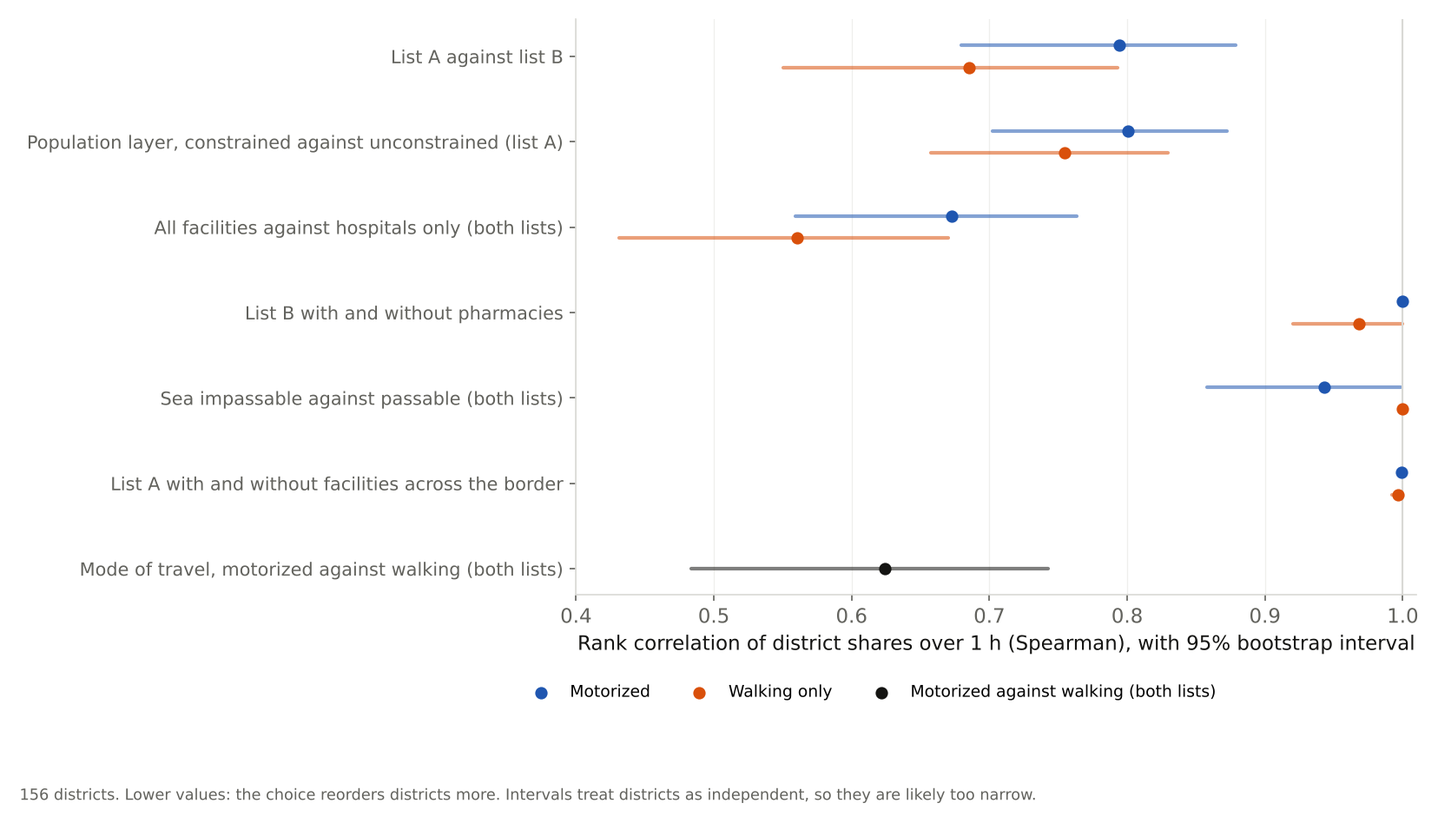
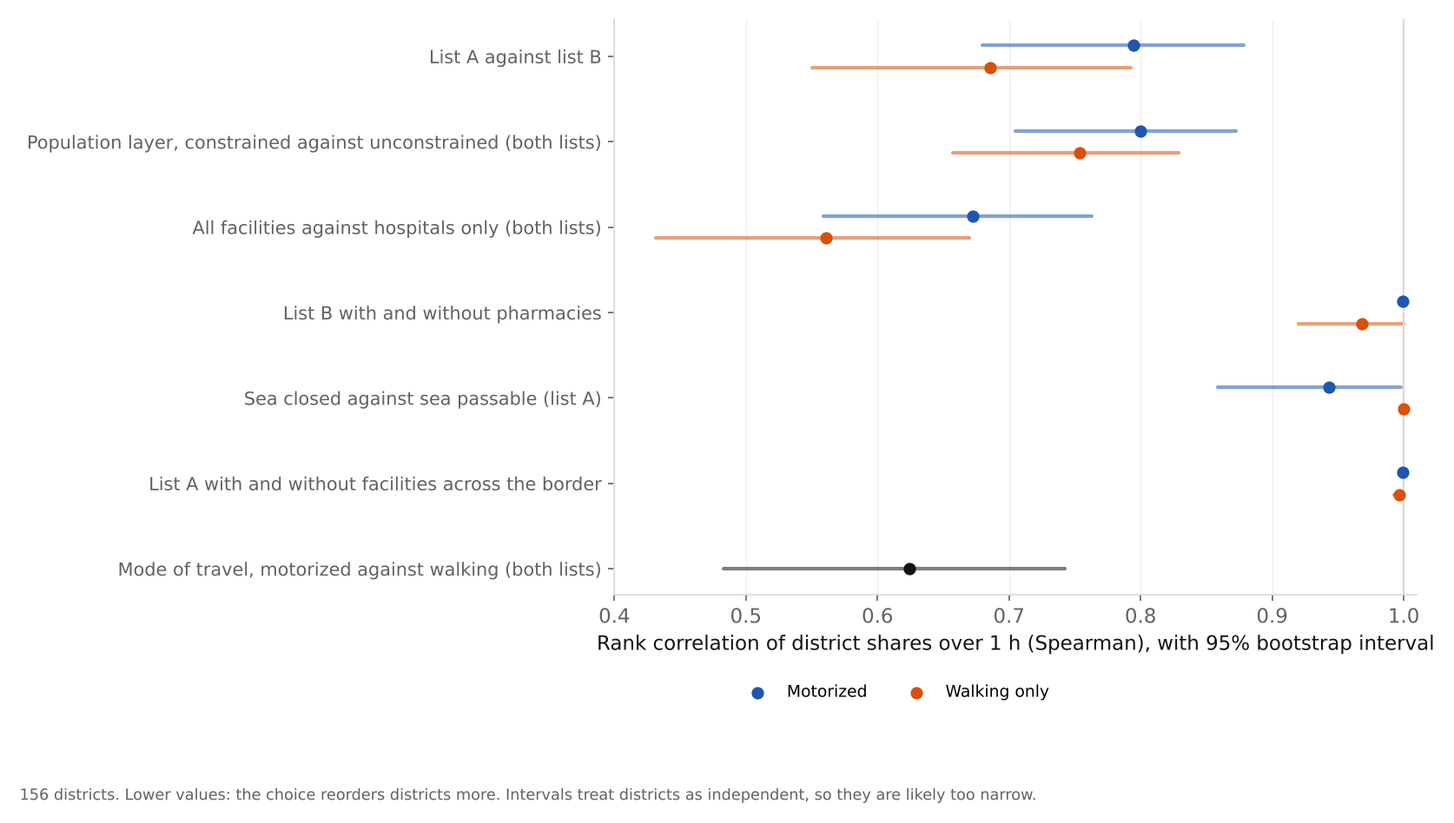
Fixes from the pre-release review

diff --git a/docs/index.html b/docs/index.html
@@ -91,9 +91,9 @@ are modelled to live more than an hour from a health facility, depending
 on which of two open facility lists, or both together, is used; on foot
 the figure is between 44.9% and 55.4%. These national figures move by a
 few percentage points with the facility list, but the figure for a
-single district can move by up to 94 points, and the choice of
-population map matters as much. All travel times here are modelled, not
-measured.</p>
+single district can move by up to 94 points by motor (97 on foot), and
+the choice of population map matters as much. All travel times here are
+modelled, not measured.</p>
 <h2 id="abstract">Abstract</h2>
 <p>Estimates of how far people live from health care depend on which
 facilities are counted, how people are assumed to travel and where the
@@ -108,18 +108,18 @@ motorized transport, 7.4% of residents are modelled to live more than
 one hour from a list A facility and 11.3% from a list B facility; on
 foot the shares are 46.6% and 55.4%. Across districts, the share beyond
 one hour under the two lists has a rank correlation of 0.79 by motor and
-0.69 on foot, and 26 and 60 districts change by more than 10 percentage
-points. Counting hospitals only, or switching from motorized to walking
-travel, tended to reorder districts more (intervals overlap). Replacing
-the WorldPop R2025A constrained population layer with the older
-unconstrained layer raises the national motorized share from 7.4% to
-14.2%, more than switching lists does; the two layers differ in release
-and inputs as well as in constraint. In three provinces in the north and
-centre, removing the 9 facilities (of 10 in the file) that the WHO
-HeRAMS survey reports as not functioning barely changes the provincial
-share on foot (57.4% to 57.5%), but a few districts move by up to 22
-points. All travel times are modelled; none was compared with measured
-journeys.</p>
+0.69 on foot, and 26 districts (motorized) and 60 (walking) change by
+more than 10 percentage points. Counting hospitals only, or switching
+from motorized to walking travel, tended to reorder districts more
+(intervals overlap). Replacing the WorldPop R2025A constrained
+population layer with the older unconstrained layer raises the national
+motorized share from 7.4% to 14.2%, more than switching lists does; the
+two layers differ in release and inputs as well as in constraint. In
+three provinces in the north and centre, removing the 9 facilities (of
+10 in the file) that the WHO HeRAMS survey reports as not functioning
+barely changes the provincial share on foot (57.4% to 57.5%), but a few
+districts move by up to 22 points. All travel times are modelled; none
+was compared with measured journeys.</p>
 <p><strong>Keywords:</strong> geographic access; health facilities;
 travel time; friction surface; OpenStreetMap; Mozambique</p>
 <h2 id="introduction">1. Introduction</h2>
@@ -477,9 +477,9 @@ rankings</h3>
 4). Between list A and list B, the rank correlation of the district
 shares beyond one hour is 0.79 by motor (95% interval 0.68 to 0.88) and
 0.69 on foot (0.55 to 0.79). By motor, 26 districts change by more than
-10 points, and 60 on foot (Figure 5); 16 and 30 change by more than 20
-points. The largest change is 94 points by motor, in Chifunde, and 97
-points on foot, in Cidade De Lichinga; list B has no facility in either
+10 points, and 60 on foot (Figure 5); by more than 20 points, 16 and 30
+do. The largest change is 94 points by motor, in Chifunde, and 97 points
+on foot, in Cidade De Lichinga; list B has no facility in either
 district, where list A has 7 and 12. Of the 20 districts with the
 highest motorized share under list A, 13 are also among the 20 highest
 under list B (9 on foot). Adding list B to list A changes less: the rank
@@ -589,7 +589,7 @@ points above the line are districts where list B gives a longer time.
 </figcaption>
 </figure>
 <figure class="wide mapimg" id="fig-5">
-<picture><source media="(max-width: 760px)" srcset="assets/figures/fig5_change_map_phone.webp"><img src="assets/figures/fig5_change_map.webp" width="1494" height="1253" loading="lazy" alt="Change in each district's share of residents more than one hour from the nearest facility when list B replaces list A, in percentage points. Orange: more residents beyond one hour with list B; blue: fewer. Hatched units (a lake and two islands) are not compared."></picture>
+<picture><source media="(max-width: 760px)" srcset="assets/figures/fig5_change_map_phone.webp"><img src="assets/figures/fig5_change_map.webp" width="1494" height="1186" loading="lazy" alt="Change in each district's share of residents more than one hour from the nearest facility when list B replaces list A, in percentage points. Orange: more residents beyond one hour with list B; blue: fewer. Hatched units (a lake and two islands) are not compared."></picture>
 <figcaption>
 <b>Figure 5.</b> Change in each district’s share of residents more than
 one hour from the nearest facility when list B replaces list A, in
@@ -614,7 +614,7 @@ lists A and B give a rank correlation of 0.73 by motor, and 54 districts
 change by more than 10 points, partly because the lists define hospitals
 differently.</p>
 <figure class="wide mapimg" id="fig-6">
-<picture><source media="(max-width: 760px)" srcset="assets/figures/fig6_rank_phone.webp"><img src="assets/figures/fig6_rank.webp" width="1656" height="948" loading="lazy" alt="Rank correlation of district shares beyond one hour between pairs of runs, with 95% bootstrap intervals over districts. Lower values mean the choice reorders districts more. The intervals treat districts as independent, so they are likely too narrow."></picture>
+<picture><source media="(max-width: 760px)" srcset="assets/figures/fig6_rank_phone.webp"><img src="assets/figures/fig6_rank.webp" width="1674" height="948" loading="lazy" alt="Rank correlation of district shares beyond one hour between pairs of runs, with 95% bootstrap intervals over districts. Lower values mean the choice reorders districts more. The intervals treat districts as independent, so they are likely too narrow."></picture>
 <figcaption>
 <b>Figure 6.</b> Rank correlation of district shares beyond one hour
 between pairs of runs, with 95% bootstrap intervals over districts.
@@ -766,7 +766,7 @@ would show how much they can be relied on.</p>
         <dt>HeRAMS</dt><dd>The WHO Health Resources and Services Availability Monitoring System. Its Mozambique file records, for three provinces in the north and centre, whether each facility was functioning when last assessed in 2022–2024.</dd>
         <dt>Constrained and unconstrained population</dt><dd>Two WorldPop maps of where people live. The constrained map puts people only on mapped settlements; the unconstrained map spreads them over all land. Both are models, not census counts.</dd>
         <dt>Share beyond one hour</dt><dd>The share of a district's modelled residents whose travel time to the nearest facility is more than 60 minutes. Residents who cannot reach any facility count as beyond.</dd>
-        <dt>Rank correlation</dt><dd>Spearman's rank correlation between two sets of district values. 1 means the districts come in the same order under both; lower values mean the order changes.</dd>
+        <dt>Rank correlation</dt><dd>Spearman's rank correlation between two sets of district values. A value of 1 means the districts come in the same order under both; lower values mean the order changes.</dd>
         <dt>Percentage point</dt><dd>The difference between two percentages. A share that moves from 20% to 30% changes by 10 points.</dd>
     </dl>
 </section>

diff --git a/scripts/page_end.html b/scripts/page_end.html
@@ -9,7 +9,7 @@
         <dt>HeRAMS</dt><dd>The WHO Health Resources and Services Availability Monitoring System. Its Mozambique file records, for three provinces in the north and centre, whether each facility was functioning when last assessed in 2022–2024.</dd>
         <dt>Constrained and unconstrained population</dt><dd>Two WorldPop maps of where people live. The constrained map puts people only on mapped settlements; the unconstrained map spreads them over all land. Both are models, not census counts.</dd>
         <dt>Share beyond one hour</dt><dd>The share of a district's modelled residents whose travel time to the nearest facility is more than 60 minutes. Residents who cannot reach any facility count as beyond.</dd>
-        <dt>Rank correlation</dt><dd>Spearman's rank correlation between two sets of district values. 1 means the districts come in the same order under both; lower values mean the order changes.</dd>
+        <dt>Rank correlation</dt><dd>Spearman's rank correlation between two sets of district values. A value of 1 means the districts come in the same order under both; lower values mean the order changes.</dd>
         <dt>Percentage point</dt><dd>The difference between two percentages. A share that moves from 20% to 30% changes by 10 points.</dd>
     </dl>
 </section>

diff --git a/scripts/s06_more_figures.py b/scripts/s06_more_figures.py
@@ -12,6 +12,7 @@ scripts/s04_figures.py.
 """
 import json
 import sys
+import textwrap
 import warnings
 from pathlib import Path
 
@@ -28,11 +29,11 @@ import access as A  # noqa: E402
 from s02_grid import MAIN_LAYER  # noqa: E402
 from s04_figures import COL_A, COL_B, INK, MUTED, RULE, map_axes, save  # noqa: E402
 
-# change in percentage points, list B minus list A: blue where list B is nearer, orange where it is farther
+# change in percentage points, list B minus list A: blue where fewer residents are beyond one hour, orange where more are
 CH_BOUNDS = [-100, -20, -10, -2, 2, 10, 20, 100]
 CH_COLS = ["#1f4e8c", "#6b9bd1", "#c7d9ef", "#f1f0ec", "#f6c89a", "#e5772e", "#9c3a08"]
-CH_LABELS = ["more than 20 points nearer", "10 to 20 nearer", "2 to 10 nearer", "within 2 points",
-             "2 to 10 farther", "10 to 20 farther", "more than 20 points farther"]
+CH_LABELS = ["over 20 points lower", "10 to 20 lower", "2 to 10 lower", "within 2 points",
+             "2 to 10 higher", "10 to 20 higher", "over 20 points higher"]
 
 
 def shapes():
@@ -51,7 +52,7 @@ def fig5_change_map(phone):
     d, a0, a1 = shapes()
     compared = set(S["compared_districts"])
     cmap = ListedColormap(CH_COLS); norm = BoundaryNorm(CH_BOUNDS, cmap.N)
-    fig, axs = plt.subplots(2 if phone else 1, 2 if not phone else 1, figsize=(6.2, 11.8) if phone else (11, 7.6))
+    fig, axs = plt.subplots(2 if phone else 1, 2 if not phone else 1, figsize=(4.0, 8.4) if phone else (11, 7.6))
     axs = np.ravel(axs)
     for ax, mode, title in ((axs[0], "motorized", "Motorized"), (axs[1], "walking", "Walking only")):
         a = S["scenarios"]["A"][mode][MAIN_LAYER]["districts"]
@@ -67,11 +68,15 @@ def fig5_change_map(phone):
         ax.set_title(f"{title}\n{n10} districts change by over 10 points", color=INK)
     handles = [plt.Rectangle((0, 0), 1, 1, color=c) for c in CH_COLS]
     handles.append(plt.Rectangle((0, 0), 1, 1, facecolor="#e5e5e1", hatch="////", edgecolor="white"))
+    handles[-1].set_edgecolor("#999")
+    title = "List B against list A: share of residents over 1 h, percentage points"
     fig.legend(handles, CH_LABELS + ["not compared (lake, islands)"], loc="lower center", ncol=2 if phone else 4,
-               frameon=False, fontsize=9, bbox_to_anchor=(0.5, -0.07 if phone else -0.06),
-               title="List B against list A: share of residents over 1 h, percentage points", title_fontsize=9.5)
-    fig.text(0.01, -0.12 if not phone else -0.11, "District and province outlines: geoBoundaries gbOpen MOZ ADM2. "
-             "Constrained WorldPop R2025A population.", fontsize=8.5, color=MUTED)
+               frameon=False, fontsize=8 if phone else 9, bbox_to_anchor=(0.5, -0.06 if phone else -0.02),
+               title=textwrap.fill(title, 44) if phone else title, title_fontsize=8.5 if phone else 9.5)
+    note = ("District and province outlines: geoBoundaries gbOpen MOZ ADM2. "
+            "Constrained WorldPop R2025A population.")
+    fig.text(0.01, -0.105 if phone else -0.05, textwrap.fill(note, 52) if phone else note, fontsize=7.5 if phone else 8.5,
+             color=MUTED, va="top")
     save(fig, "fig5_change_map", phone)
 
 
@@ -80,14 +85,14 @@ def fig6_rank(phone):
     P, M, L = C["pairs"], C["modes"], C["population_layer"]
     rows = [  # label, motorized entry, walking entry
         ("List A against list B", P["A|B|motorized|60"], P["A|B|walking|60"]),
-        ("Population layer, constrained against unconstrained (list A)", L["A|motorized|60"], L["A|walking|60"]),
+        ("Population layer, constrained against unconstrained (both lists)", L["AB|motorized|60"], L["AB|walking|60"]),
         ("All facilities against hospitals only (both lists)", P["AB|AB_hosp|motorized|60"], P["AB|AB_hosp|walking|60"]),
         ("List B with and without pharmacies", P["B|B_pharm|motorized|60"], P["B|B_pharm|walking|60"]),
-        ("Sea impassable against passable (both lists)", P["AB|AB_sea|motorized|60"], P["AB|AB_sea|walking|60"]),
+        ("Sea closed against sea passable (list A)", P["A|A_sea|motorized|60"], P["A|A_sea|walking|60"]),
         ("List A with and without facilities across the border", P["A|A_cross|motorized|60"], P["A|A_cross|walking|60"]),
     ]
     mode = M["AB|60"]
-    fig, ax = plt.subplots(figsize=(6.2, 8.2) if phone else (11, 5.6))
+    fig, ax = plt.subplots(figsize=(4.0, 7.2) if phone else (11, 5.6))
     y = np.arange(len(rows) + 1)
     for k, (label, colour, off) in enumerate((("Motorized", COL_A, -0.13), ("Walking only", COL_B, 0.13))):
         for j, (_, mo, wa) in enumerate(rows):
@@ -98,23 +103,26 @@ def fig6_rank(phone):
     lo, hi = mode["spearman_ci95"]
     j = len(rows)
     ax.plot([lo, hi], [j, j], color=INK, linewidth=2, alpha=0.55, solid_capstyle="round")
-    ax.scatter(mode["spearman"], j, s=34, color=INK, zorder=3, label="Motorized against walking (both lists)")
+    ax.scatter(mode["spearman"], j, s=34, color=INK, zorder=3)
     labels = [r[0] for r in rows] + ["Mode of travel, motorized against walking (both lists)"]
     if phone:
-        import textwrap
-        labels = [textwrap.fill(l, 30) for l in labels]
-    ax.set_yticks(y, labels, fontsize=8.5 if phone else 10)
+        labels = [textwrap.fill(l, 24) for l in labels]
+    ax.set_yticks(y, labels, fontsize=8 if phone else 10)
     ax.invert_yaxis()
     ax.set_xlim(0.4, 1.01)
     ax.axvline(1, color=RULE, linewidth=1)
-    ax.set_xlabel("Rank correlation of district shares over 1 h (Spearman), with 95% bootstrap interval")
+    ax.set_xlabel("Spearman rank correlation, 95% interval" if phone else
+                  "Rank correlation of district shares over 1 h (Spearman), with 95% bootstrap interval",
+                  fontsize=8.5 if phone else None)
     ax.grid(axis="x", color="#efefec", linewidth=0.6); ax.set_axisbelow(True)
     for s in ("top", "right"):
         ax.spines[s].set_visible(False)
-    ax.legend(loc="upper center", bbox_to_anchor=(0.35 if not phone else 0.2, -0.13 if not phone else -0.09),
-              ncol=3 if not phone else 1, frameon=False, fontsize=9)
-    fig.text(0.01, -0.1 if not phone else -0.08, f"{C['n_compared']} districts. Lower values: the choice reorders districts more. Intervals "
-             "treat districts as independent, so they are likely too narrow.", fontsize=8.5, color=MUTED)
+    ax.legend(loc="upper center", bbox_to_anchor=(0.35 if not phone else 0.2, -0.13 if not phone else -0.08),
+              ncol=2 if not phone else 1, frameon=False, fontsize=9)
+    note = (f"{C['n_compared']} districts. Lower values: the choice reorders districts more. Intervals "
+            "treat districts as independent, so they are likely too narrow.")
+    fig.text(0.01, -0.1 if not phone else -0.005, textwrap.fill(note, 50) if phone else note, fontsize=7.5 if phone else 8.5,
+             color=MUTED, va="top" if phone else "baseline")
     fig.tight_layout()
     save(fig, "fig6_rank", phone)
 

diff --git a/tests/test_paper.py b/tests/test_paper.py
@@ -42,13 +42,12 @@ def test_page_is_built_from_paper():
         assert (ROOT / "docs" / f).exists(), f
 
 
-def test_no_emoji_or_attribution_in_published_text():
+def test_no_emoji_in_published_text():
     emoji = re.compile("[\U0001F300-\U0001FAFF☀-➿]")
     for p in [ROOT / "paper" / "paper.md", ROOT / "docs" / "index.html", ROOT / "README.md"]:
         if p.exists():
             s = p.read_text(encoding="utf-8")
             assert not emoji.search(s), p
-            assert "Claude" not in s and "Anthropic" not in s, p
 
 
 def test_no_visible_placeholder_on_page():

diff --git a/paper/template.md b/paper/template.md
@@ -6,11 +6,11 @@ date: "{{date}}"
 
 # In brief
 
-With motor transport, between {{AB_m60}}% and {{B_m60}}% of people in Mozambique are modelled to live more than an hour from a health facility, depending on which of two open facility lists, or both together, is used; on foot the figure is between {{AB_w60}}% and {{B_w60}}%. These national figures move by a few percentage points with the facility list, but the figure for a single district can move by up to {{ab_max_m}} points, and the choice of population map matters as much. All travel times here are modelled, not measured.
+With motor transport, between {{AB_m60}}% and {{B_m60}}% of people in Mozambique are modelled to live more than an hour from a health facility, depending on which of two open facility lists, or both together, is used; on foot the figure is between {{AB_w60}}% and {{B_w60}}%. These national figures move by a few percentage points with the facility list, but the figure for a single district can move by up to {{ab_max_m}} points by motor ({{ab_max_w}} on foot), and the choice of population map matters as much. All travel times here are modelled, not measured.
 
 # Abstract
 
-Estimates of how far people live from health care depend on which facilities are counted, how people are assumed to travel and where the population is placed. We modelled travel time to the nearest health facility across Mozambique's {{n_districts}} second-level units (geoBoundaries ADM2) with the Malaria Atlas Project 2020 friction surfaces and WorldPop 2020 population, and repeated the calculation with two facility lists: the public-sector list of Maina et al. (2019) (list A, {{a_used}} facilities) and the OpenStreetMap health facilities exported by the Humanitarian OpenStreetMap Team (list B, {{b_used}} facilities without pharmacies). With motorized transport, {{A_m60}}% of residents are modelled to live more than one hour from a list A facility and {{B_m60}}% from a list B facility; on foot the shares are {{A_w60}}% and {{B_w60}}%. Across districts, the share beyond one hour under the two lists has a rank correlation of {{ab_rho_m}} by motor and {{ab_rho_w}} on foot, and {{ab_10_m}} and {{ab_10_w}} districts change by more than 10 percentage points. Counting hospitals only, or switching from motorized to walking travel, tended to reorder districts more (intervals overlap). Replacing the WorldPop R2025A constrained population layer with the older unconstrained layer raises the national motorized share from {{A_m60}}% to {{A_m60u}}%, more than switching lists does; the two layers differ in release and inputs as well as in constraint. In three provinces in the north and centre, removing the {{h_non}} facilities (of {{h_non_file}} in the file) that the WHO HeRAMS survey reports as not functioning barely changes the provincial share on foot ({{H_all_h3_w60}}% to {{H_func_h3_w60}}%), but a few districts move by up to {{hf_max_w}} points. All travel times are modelled; none was compared with measured journeys.
+Estimates of how far people live from health care depend on which facilities are counted, how people are assumed to travel and where the population is placed. We modelled travel time to the nearest health facility across Mozambique's {{n_districts}} second-level units (geoBoundaries ADM2) with the Malaria Atlas Project 2020 friction surfaces and WorldPop 2020 population, and repeated the calculation with two facility lists: the public-sector list of Maina et al. (2019) (list A, {{a_used}} facilities) and the OpenStreetMap health facilities exported by the Humanitarian OpenStreetMap Team (list B, {{b_used}} facilities without pharmacies). With motorized transport, {{A_m60}}% of residents are modelled to live more than one hour from a list A facility and {{B_m60}}% from a list B facility; on foot the shares are {{A_w60}}% and {{B_w60}}%. Across districts, the share beyond one hour under the two lists has a rank correlation of {{ab_rho_m}} by motor and {{ab_rho_w}} on foot, and {{ab_10_m}} districts (motorized) and {{ab_10_w}} (walking) change by more than 10 percentage points. Counting hospitals only, or switching from motorized to walking travel, tended to reorder districts more (intervals overlap). Replacing the WorldPop R2025A constrained population layer with the older unconstrained layer raises the national motorized share from {{A_m60}}% to {{A_m60u}}%, more than switching lists does; the two layers differ in release and inputs as well as in constraint. In three provinces in the north and centre, removing the {{h_non}} facilities (of {{h_non_file}} in the file) that the WHO HeRAMS survey reports as not functioning barely changes the provincial share on foot ({{H_all_h3_w60}}% to {{H_func_h3_w60}}%), but a few districts move by up to {{hf_max_w}} points. All travel times are modelled; none was compared with measured journeys.
 
 **Keywords:** geographic access; health facilities; travel time; friction surface; OpenStreetMap; Mozambique
 
@@ -82,7 +82,7 @@ Counting hospitals only raises the national share beyond one hour to {{A_hosp_m6
 
 ## 3.3 District estimates and rankings
 
-District shares agree less than the national ones (Table 2, Figure 4). Between list A and list B, the rank correlation of the district shares beyond one hour is {{ab_rho_m}} by motor (95% interval {{ab_ci_m}}) and {{ab_rho_w}} on foot ({{ab_ci_w}}). By motor, {{ab_10_m}} districts change by more than 10 points, and {{ab_10_w}} on foot (Figure 5); {{ab_20_m}} and {{ab_20_w}} change by more than 20 points. The largest change is {{ab_max_m}} points by motor, in {{ab_max_m_d}}, and {{ab_max_w}} points on foot, in {{ab_max_w_d}}; list B has no facility in either district, where list A has {{ab_max_m_na}} and {{ab_max_w_na}}. Of the {{top_k}} districts with the highest motorized share under list A, {{ab_top_m}} are also among the {{top_k}} highest under list B ({{ab_top_w}} on foot). Adding list B to list A changes less: the rank correlation is {{aab_rho_m}} by motor and {{aab_rho_w}} on foot, and {{aab_10_m}} and {{aab_10_w}} districts change by more than 10 points.
+District shares agree less than the national ones (Table 2, Figure 4). Between list A and list B, the rank correlation of the district shares beyond one hour is {{ab_rho_m}} by motor (95% interval {{ab_ci_m}}) and {{ab_rho_w}} on foot ({{ab_ci_w}}). By motor, {{ab_10_m}} districts change by more than 10 points, and {{ab_10_w}} on foot (Figure 5); by more than 20 points, {{ab_20_m}} and {{ab_20_w}} do. The largest change is {{ab_max_m}} points by motor, in {{ab_max_m_d}}, and {{ab_max_w}} points on foot, in {{ab_max_w_d}}; list B has no facility in either district, where list A has {{ab_max_m_na}} and {{ab_max_w_na}}. Of the {{top_k}} districts with the highest motorized share under list A, {{ab_top_m}} are also among the {{top_k}} highest under list B ({{ab_top_w}} on foot). Adding list B to list A changes less: the rank correlation is {{aab_rho_m}} by motor and {{aab_rho_w}} on foot, and {{aab_10_m}} and {{aab_10_w}} districts change by more than 10 points.
 
 **Table 2.** How district shares beyond one hour change between scenarios ({{n_compared}} districts unless stated). Each cell gives motorized / walking. Changes are in percentage points.
 

diff --git a/paper/paper.md b/paper/paper.md
@@ -6,11 +6,11 @@ date: "November 2026"
 
 # In brief
 
-With motor transport, between 7.0% and 11.3% of people in Mozambique are modelled to live more than an hour from a health facility, depending on which of two open facility lists, or both together, is used; on foot the figure is between 44.9% and 55.4%. These national figures move by a few percentage points with the facility list, but the figure for a single district can move by up to 94 points, and the choice of population map matters as much. All travel times here are modelled, not measured.
+With motor transport, between 7.0% and 11.3% of people in Mozambique are modelled to live more than an hour from a health facility, depending on which of two open facility lists, or both together, is used; on foot the figure is between 44.9% and 55.4%. These national figures move by a few percentage points with the facility list, but the figure for a single district can move by up to 94 points by motor (97 on foot), and the choice of population map matters as much. All travel times here are modelled, not measured.
 
 # Abstract
 
-Estimates of how far people live from health care depend on which facilities are counted, how people are assumed to travel and where the population is placed. We modelled travel time to the nearest health facility across Mozambique's 159 second-level units (geoBoundaries ADM2) with the Malaria Atlas Project 2020 friction surfaces and WorldPop 2020 population, and repeated the calculation with two facility lists: the public-sector list of Maina et al. (2019) (list A, 1,575 facilities) and the OpenStreetMap health facilities exported by the Humanitarian OpenStreetMap Team (list B, 1,057 facilities without pharmacies). With motorized transport, 7.4% of residents are modelled to live more than one hour from a list A facility and 11.3% from a list B facility; on foot the shares are 46.6% and 55.4%. Across districts, the share beyond one hour under the two lists has a rank correlation of 0.79 by motor and 0.69 on foot, and 26 and 60 districts change by more than 10 percentage points. Counting hospitals only, or switching from motorized to walking travel, tended to reorder districts more (intervals overlap). Replacing the WorldPop R2025A constrained population layer with the older unconstrained layer raises the national motorized share from 7.4% to 14.2%, more than switching lists does; the two layers differ in release and inputs as well as in constraint. In three provinces in the north and centre, removing the 9 facilities (of 10 in the file) that the WHO HeRAMS survey reports as not functioning barely changes the provincial share on foot (57.4% to 57.5%), but a few districts move by up to 22 points. All travel times are modelled; none was compared with measured journeys.
+Estimates of how far people live from health care depend on which facilities are counted, how people are assumed to travel and where the population is placed. We modelled travel time to the nearest health facility across Mozambique's 159 second-level units (geoBoundaries ADM2) with the Malaria Atlas Project 2020 friction surfaces and WorldPop 2020 population, and repeated the calculation with two facility lists: the public-sector list of Maina et al. (2019) (list A, 1,575 facilities) and the OpenStreetMap health facilities exported by the Humanitarian OpenStreetMap Team (list B, 1,057 facilities without pharmacies). With motorized transport, 7.4% of residents are modelled to live more than one hour from a list A facility and 11.3% from a list B facility; on foot the shares are 46.6% and 55.4%. Across districts, the share beyond one hour under the two lists has a rank correlation of 0.79 by motor and 0.69 on foot, and 26 districts (motorized) and 60 (walking) change by more than 10 percentage points. Counting hospitals only, or switching from motorized to walking travel, tended to reorder districts more (intervals overlap). Replacing the WorldPop R2025A constrained population layer with the older unconstrained layer raises the national motorized share from 7.4% to 14.2%, more than switching lists does; the two layers differ in release and inputs as well as in constraint. In three provinces in the north and centre, removing the 9 facilities (of 10 in the file) that the WHO HeRAMS survey reports as not functioning barely changes the provincial share on foot (57.4% to 57.5%), but a few districts move by up to 22 points. All travel times are modelled; none was compared with measured journeys.
 
 **Keywords:** geographic access; health facilities; travel time; friction surface; OpenStreetMap; Mozambique
 
@@ -92,7 +92,7 @@ Counting hospitals only raises the national share beyond one hour to 43.3% (list
 
 ## 3.3 District estimates and rankings
 
-District shares agree less than the national ones (Table 2, Figure 4). Between list A and list B, the rank correlation of the district shares beyond one hour is 0.79 by motor (95% interval 0.68 to 0.88) and 0.69 on foot (0.55 to 0.79). By motor, 26 districts change by more than 10 points, and 60 on foot (Figure 5); 16 and 30 change by more than 20 points. The largest change is 94 points by motor, in Chifunde, and 97 points on foot, in Cidade De Lichinga; list B has no facility in either district, where list A has 7 and 12. Of the 20 districts with the highest motorized share under list A, 13 are also among the 20 highest under list B (9 on foot). Adding list B to list A changes less: the rank correlation is 0.97 by motor and 0.97 on foot, and 1 and 5 districts change by more than 10 points.
+District shares agree less than the national ones (Table 2, Figure 4). Between list A and list B, the rank correlation of the district shares beyond one hour is 0.79 by motor (95% interval 0.68 to 0.88) and 0.69 on foot (0.55 to 0.79). By motor, 26 districts change by more than 10 points, and 60 on foot (Figure 5); by more than 20 points, 16 and 30 do. The largest change is 94 points by motor, in Chifunde, and 97 points on foot, in Cidade De Lichinga; list B has no facility in either district, where list A has 7 and 12. Of the 20 districts with the highest motorized share under list A, 13 are also among the 20 highest under list B (9 on foot). Adding list B to list A changes less: the rank correlation is 0.97 by motor and 0.97 on foot, and 1 and 5 districts change by more than 10 points.
 
 **Table 2.** How district shares beyond one hour change between scenarios (156 districts unless stated). Each cell gives motorized / walking. Changes are in percentage points.
 
